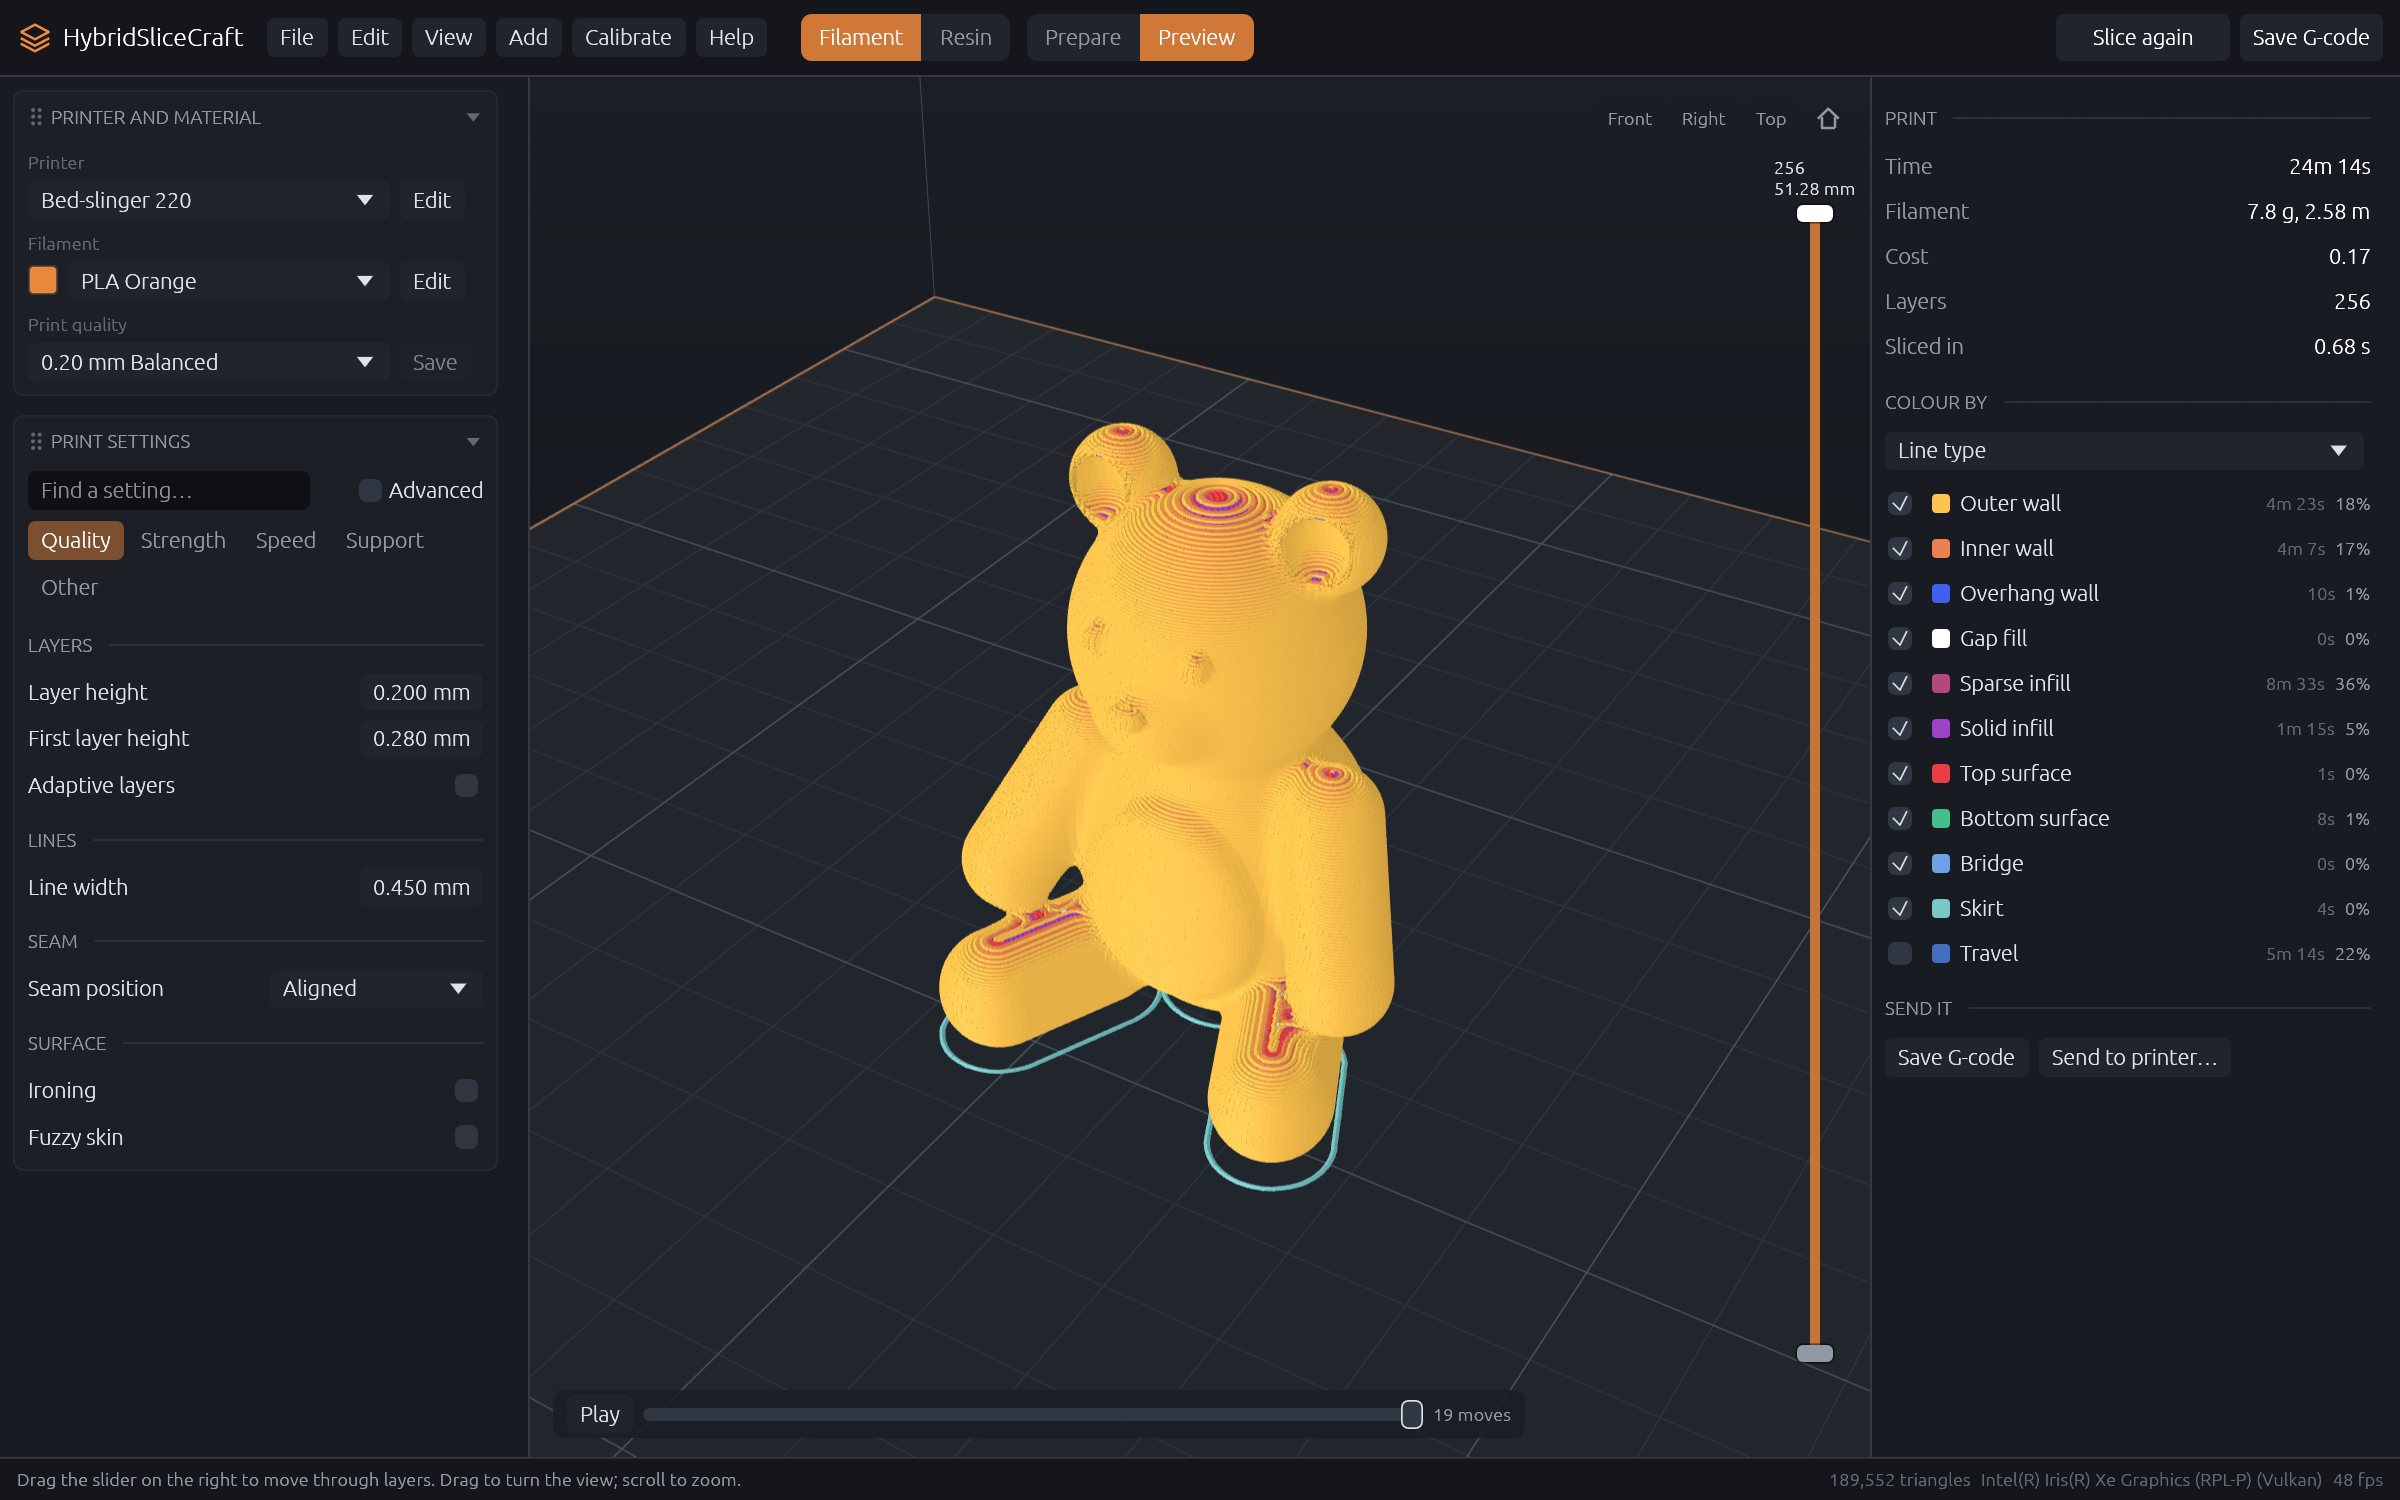
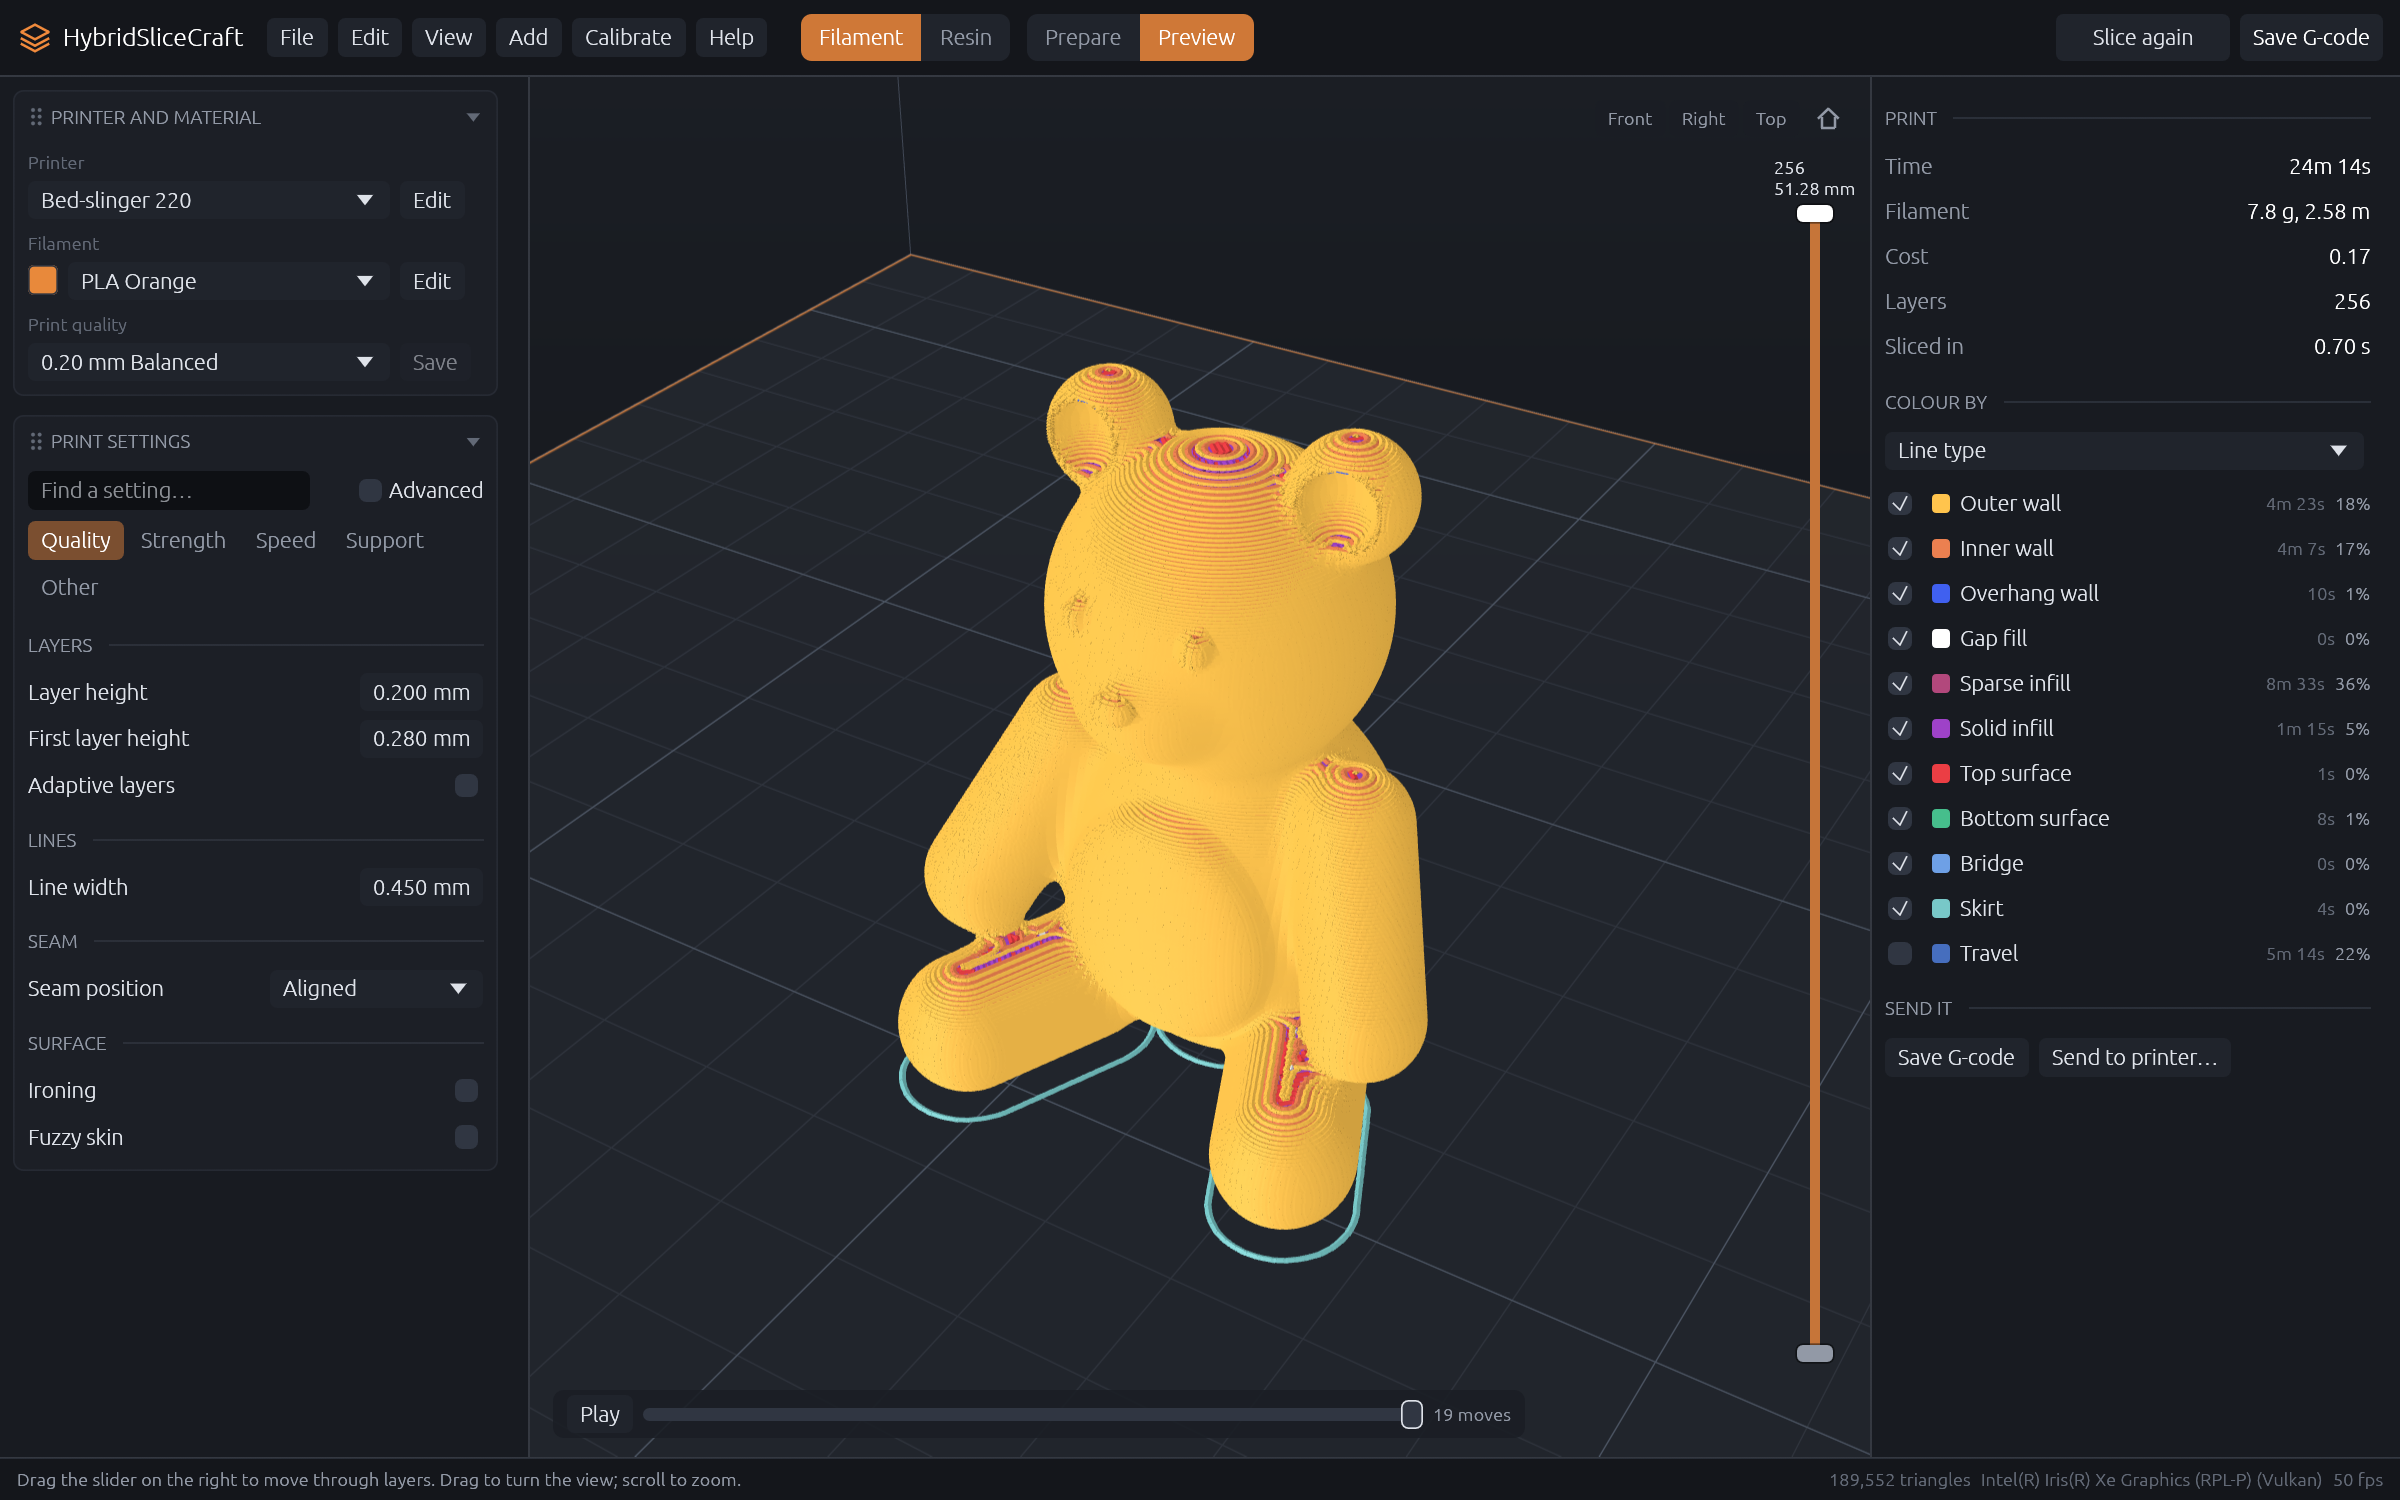
Update README screenshots, add a painting picture, hide the pointer in screenshots

diff --git a/src/app/mod.rs b/src/app/mod.rs
@@ -615,6 +615,15 @@ impl App {
 }
 
 impl eframe::App for App {
+    /// Pictures for the docs are taken without a mouse pointer, so a hover
+    /// tooltip under wherever the window opened doesn't end up in them.
+    fn raw_input_hook(&mut self, _ctx: &egui::Context, raw_input: &mut egui::RawInput) {
+        if self.screenshot.is_some() {
+            raw_input.events.retain(|e| !matches!(e, egui::Event::PointerMoved(_) | egui::Event::PointerButton { .. }));
+            raw_input.events.push(egui::Event::PointerGone);
+        }
+    }
+
     fn on_exit(&mut self) {
         self.save_session();
     }

diff --git a/README.md b/README.md
@@ -22,6 +22,8 @@ A hybrid slicer for filament (FDM) and resin (MSLA) 3D printers, in one fast des
 - Calibration tests: temperature tower, flow, max flow tower, speed ripple tower, retraction, pressure advance, first layer
 - Sending to OctoPrint or Moonraker printers over the local network
 
+![Painting: the bear painted with two filaments, ready to slice](docs/fdm-painted.png)
+
 ## Resin (MSLA)
 
 ![Resin preview: supported bear, a cut through the model and the layer picture](docs/resin-preview.png)
